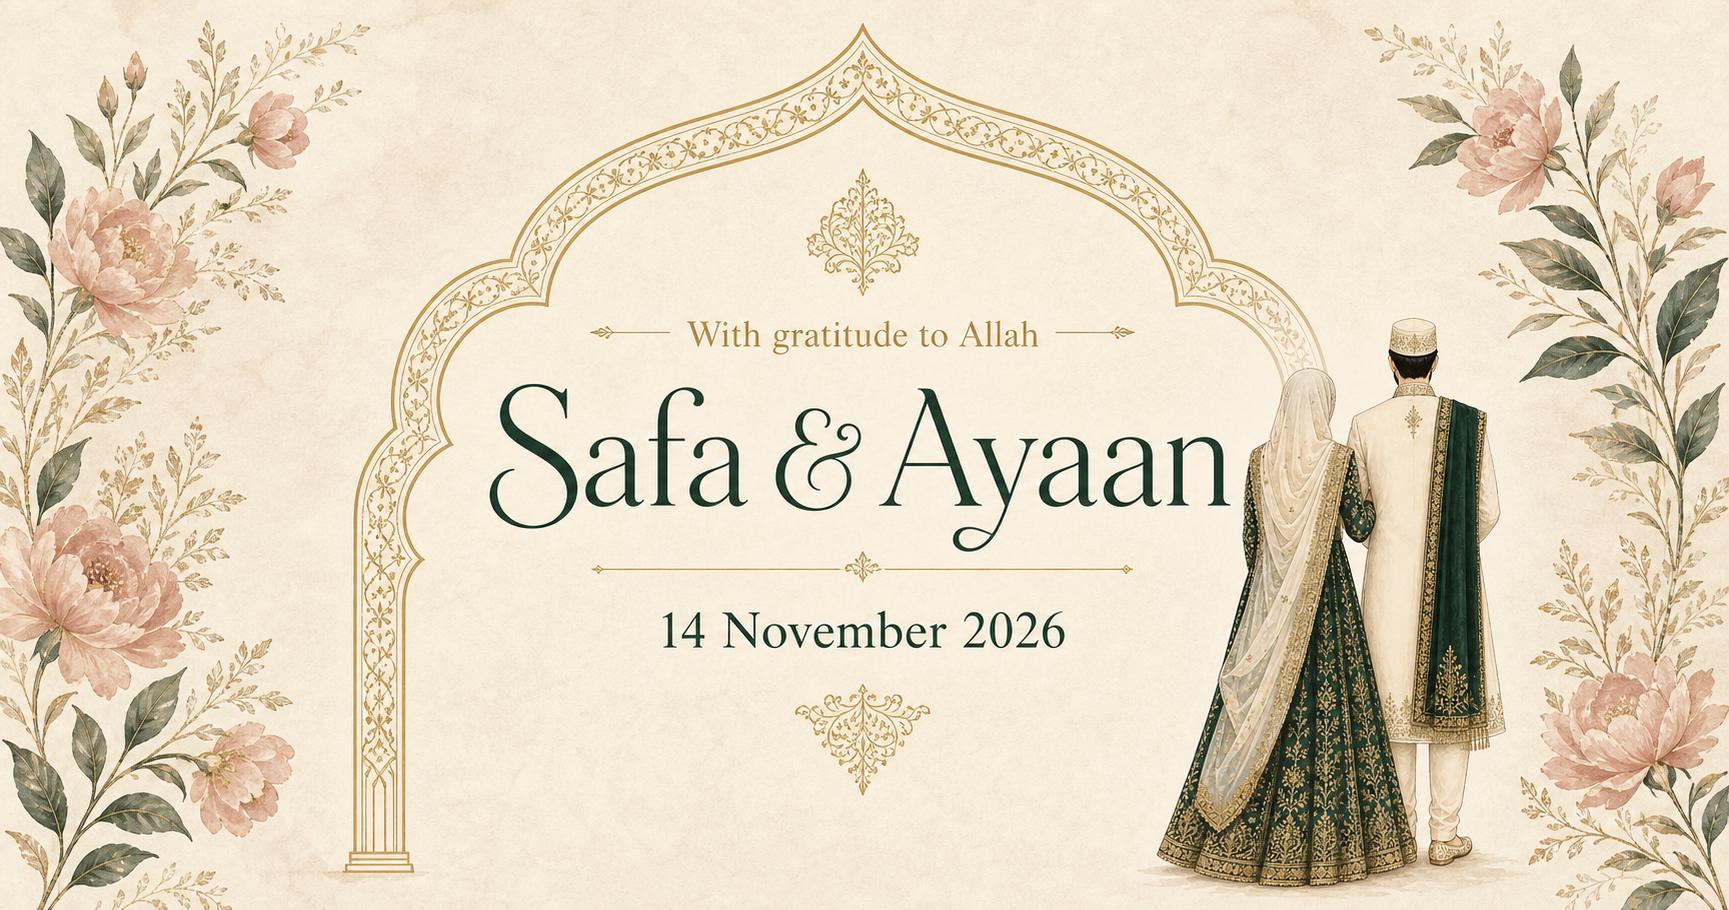
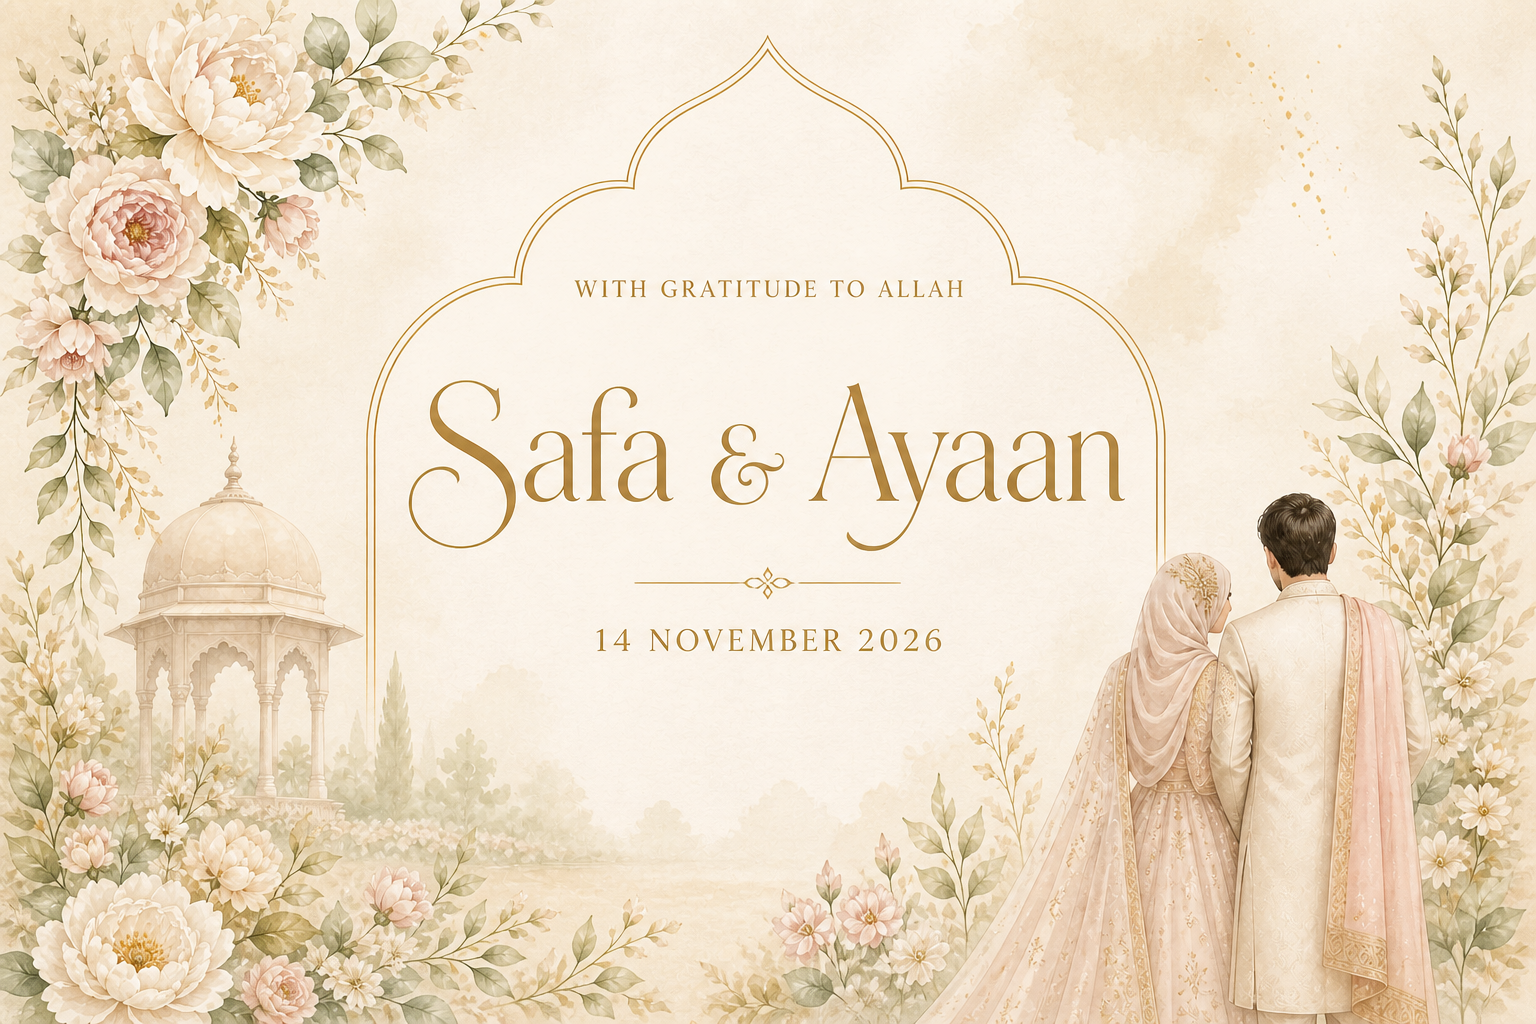
Redesign invitation landing from watercolor reference

diff --git a/app/globals.css b/app/globals.css
@@ -1,7 +1,7 @@
 @import url('https://fonts.googleapis.com/css2?family=Cormorant+Garamond:ital,wght@0,400;0,500;0,600;1,500&family=Manrope:wght@400;500;600&family=Noto+Naskh+Arabic:wght@500&display=swap');
 @import "tailwindcss";
 
-:root { --ivory:#f6f0e4; --paper:#fbf8f0; --green:#173f32; --green-2:#285344; --gold:#b38a4c; --blush:#c99186; --ink:#24342d; }
+:root { --ivory:#f8f2e8; --paper:#fdfaf3; --green:#4c5848; --green-2:#66715e; --gold:#b99658; --blush:#d6aaa0; --ink:#4a4c43; }
 * { box-sizing: border-box; }
 html { scroll-behavior:smooth; background:var(--ivory); }
 body { margin:0; color:var(--ink); background:var(--ivory); font-family:"Manrope",sans-serif; overflow-x:hidden; }
@@ -35,24 +35,20 @@ button { color:inherit; }
 
 .invitation-content { opacity:0; visibility:hidden; transition:opacity .9s ease .65s; }.invitation--open .invitation-content { opacity:1; visibility:visible; }
 .hero { height:142vh; position:relative; background:var(--ivory); }
-.hero__fixed { position:sticky; top:0; height:100vh; overflow:hidden; display:grid; place-items:center; filter:blur(var(--scroll-blur)); opacity:var(--scroll-fade); transform:scale(calc(1 + var(--scroll-blur) / 150)); transition:filter .05s linear; background:radial-gradient(circle at 50% 42%,#fffdf7 0,#f5eddf 72%); }
-.paper-noise { position:absolute; inset:0; opacity:.34; pointer-events:none; background-image:radial-gradient(#745f3c18 .7px,transparent .7px); background-size:7px 7px; }
-.arch { position:relative; z-index:2; width:min(690px,72vw); height:min(810px,87vh); padding:12px; border:1px solid #c3a66f; border-bottom:0; border-radius:50% 50% 0 0 / 35% 35% 0 0; }
-.arch:before,.arch:after { content:""; position:absolute; border:1px solid #b38a4c66; border-bottom:0; border-radius:50% 50% 0 0 / 34% 34% 0 0; }.arch:before { inset:7px; }.arch:after { inset:17px; }
-.arch__inner { position:relative; z-index:2; height:100%; display:flex; flex-direction:column; align-items:center; text-align:center; padding:14vh 2rem 2rem; }
+.hero__fixed { position:sticky; top:0; height:100vh; overflow:hidden; display:grid; place-items:center; filter:blur(var(--scroll-blur)); opacity:var(--scroll-fade); transform:scale(calc(1 + var(--scroll-blur) / 150)); transition:filter .05s linear; background:radial-gradient(circle at 50% 38%,#f8f2e8,#e4d7c3 80%); }
+.paper-noise { position:absolute; inset:0; z-index:1; opacity:.14; pointer-events:none; background-image:radial-gradient(#745f3c20 .7px,transparent .7px); background-size:7px 7px; }
+.hero-art { position:absolute; z-index:0; top:0; bottom:0; left:50%; height:100%; width:auto; max-width:none; transform:translateX(-50%); object-fit:cover; box-shadow:0 0 75px #6f5d4430; }
+.arch { position:relative; z-index:2; width:min(560px,53vh); height:min(760px,82vh); padding:0; }
+.arch:before,.arch:after { display:none; }
+.arch__inner { position:relative; z-index:2; height:100%; display:flex; flex-direction:column; align-items:center; text-align:center; padding:16vh 1rem 1rem; }
 .bismillah { margin:0 0 1.3rem; font:500 clamp(1.15rem,2.2vw,1.65rem) "Noto Naskh Arabic",serif; color:var(--green); }
 .ornament { width:110px; display:flex; align-items:center; gap:10px; margin:1.2rem 0; color:var(--gold); }.ornament:before,.ornament:after { content:""; height:1px; flex:1; background:var(--gold); }.ornament span { font-size:.65rem; }
-h1 { margin:0; display:flex; flex-direction:column; font:500 clamp(4.4rem,9vw,8.1rem)/.67 "Cormorant Garamond",serif; color:var(--green); letter-spacing:-.055em; }
+h1 { margin:0; display:flex; flex-direction:column; font:500 clamp(3.7rem,7.5vh,6rem)/.68 "Cormorant Garamond",serif; color:var(--green); letter-spacing:-.055em; text-shadow:0 2px 16px #fffaf0; }
 h1 small { margin:.24em 0; color:var(--gold); font-size:.32em; font-style:italic; letter-spacing:0; }
 .invitation-copy { margin:2rem 0 1.4rem; font:italic 500 clamp(1rem,1.7vw,1.25rem)/1.6 "Cormorant Garamond",serif; color:#687269; }
 .date-lockup { display:flex; align-items:center; gap:1.1rem; color:var(--green); text-transform:uppercase; }.date-lockup strong { padding:0 1.1rem; border-left:1px solid #c1a36c;border-right:1px solid #c1a36c; font:500 clamp(1rem,2vw,1.3rem) "Cormorant Garamond",serif; letter-spacing:.14em; }.date-lockup span { font-size:.55rem; letter-spacing:.14em; }
 .verse { margin:2rem 0 .2rem; font:italic 500 .92rem "Cormorant Garamond",serif; color:#6b746c; }.verse-ref { color:var(--gold); font-size:.54rem; letter-spacing:.15em; text-transform:uppercase; }
-.couple { position:absolute; z-index:4; right:3.5vw; bottom:-2.5vh; width:min(34vw,470px); height:min(76vh,760px); object-fit:contain; mix-blend-mode:multiply; transform-origin:bottom center; animation:coupleSway 5s ease-in-out infinite; filter:drop-shadow(0 15px 18px #5b49321a); }
-.arch-floral { position:absolute; z-index:3; width:250px; height:600px; pointer-events:none; }.arch-floral--left { left:3vw; top:12vh; }.arch-floral--right { right:2.5vw; top:5vh; transform:scaleX(-1) rotate(-7deg); }
-.stem { position:absolute; display:block; left:90px; bottom:0; width:2px; height:510px; border-radius:50%; background:linear-gradient(#617e6a,#315b48); transform:rotate(-15deg); transform-origin:bottom; }.stem--two { height:410px; transform:rotate(12deg); }
-.leaf { position:absolute; width:55px; height:22px; background:linear-gradient(135deg,#52755f,#214c3c); border-radius:100% 0 100% 0; }.leaf--one{left:45px;top:250px;transform:rotate(25deg)}.leaf--two{left:102px;top:325px;transform:rotate(-35deg)}.leaf--three{left:25px;top:400px;transform:rotate(42deg)}.leaf--four{left:115px;top:185px;transform:rotate(-50deg)}
-.flower { position:absolute; width:74px; aspect-ratio:1; border-radius:50%; background:radial-gradient(circle,#d9ae9c 0 11%,transparent 12%),radial-gradient(ellipse at 50% 12%,#d7a499 0 21%,transparent 22%),radial-gradient(ellipse at 88% 52%,#c98e84 0 20%,transparent 21%),radial-gradient(ellipse at 48% 88%,#dda99e 0 21%,transparent 22%),radial-gradient(ellipse at 12% 50%,#c88d83 0 20%,transparent 21%); filter:drop-shadow(0 7px 8px #79504720); }.flower--one{left:62px;top:72px}.flower--two{left:10px;top:190px;transform:scale(.72)}.flower--three{left:120px;top:265px;transform:scale(.58)}
-.scroll-cue { position:absolute; z-index:6; left:3vw; bottom:4vh; display:flex; gap:.8rem; align-items:center; color:#6f776f; font-size:.57rem; letter-spacing:.17em; text-transform:uppercase; }.scroll-cue i { color:var(--gold);font:normal 1rem serif;animation:bob 1.5s ease-in-out infinite;}
+.scroll-cue { position:absolute; z-index:6; left:50%; bottom:2.8vh; transform:translateX(-50%); display:flex; gap:.8rem; align-items:center; color:#7d776c; font-size:.53rem; letter-spacing:.17em; text-transform:uppercase; white-space:nowrap; }.scroll-cue i { color:var(--gold);font:normal 1rem serif;animation:bob 1.5s ease-in-out infinite;}
 
 .details { position:relative; z-index:7; padding:11rem max(5vw,1.5rem) 0; background:linear-gradient(180deg,#f1e7d7,#f8f3e9 35%,#f2e9dc); overflow:hidden; }
 .details:before { content:""; position:absolute; width:480px; aspect-ratio:1; right:-260px; top:110px; border:1px solid #b38a4c45; border-radius:50%; box-shadow:0 0 0 28px #b38a4c12,0 0 0 55px #b38a4c0b; }
@@ -64,8 +60,8 @@ h1 small { margin:.24em 0; color:var(--gold); font-size:.32em; font-style:italic
 .dua-card { max-width:1040px;margin:7rem auto;padding:6rem 2rem;text-align:center;border-top:1px solid #b4956260;border-bottom:1px solid #b4956260;}.crescent{display:block;color:var(--gold);font-size:2rem;margin-bottom:2rem}.dua-card__arabic{margin:0 auto 1.7rem;max-width:730px;color:var(--green);font:500 clamp(1.55rem,3.5vw,2.5rem)/1.8 "Noto Naskh Arabic",serif}.dua-card>p:last-child{max-width:540px;margin:auto;color:#6d746e;font:italic 500 1.05rem/1.7 "Cormorant Garamond",serif}
 footer { margin:0 calc(max(5vw,1.5rem) * -1);padding:7rem 2rem 5rem;text-align:center;background:#e8dcc9;color:var(--green)}.monogram{font:500 clamp(3rem,7vw,5rem) "Cormorant Garamond",serif;}.monogram i{color:var(--gold);font-weight:400}.monogram:after{content:"";display:block;width:42px;height:1px;margin:2rem auto;background:var(--gold)}footer p{font:italic 500 1.25rem "Cormorant Garamond",serif;margin:0 0 .8rem}footer span{color:#747a73;font-size:.6rem;letter-spacing:.18em;text-transform:uppercase}
 
-@keyframes envelopeIn{from{opacity:0;transform:translateY(35px) rotateX(6deg)}to{opacity:1;transform:none}}@keyframes rise{from{opacity:0;transform:translateY(12px)}to{opacity:1;transform:none}}@keyframes bob{50%{transform:translateY(6px)}}@keyframes coupleSway{0%,100%{transform:rotate(-.5deg) translateY(0)}50%{transform:rotate(.7deg) translateY(-6px)}}
+@keyframes envelopeIn{from{opacity:0;transform:translateY(35px) rotateX(6deg)}to{opacity:1;transform:none}}@keyframes rise{from{opacity:0;transform:translateY(12px)}to{opacity:1;transform:none}}@keyframes bob{50%{transform:translateY(6px)}}
 
-@media(max-width:800px){.envelope-wrap{width:90vw}.seal{width:68px}.envelope-eyebrow{margin-bottom:2rem;font-size:.56rem}.hero{height:132vh}.hero__fixed{align-items:start;padding-top:5vh}.arch{width:89vw;height:82vh}.arch__inner{padding:11vh 1rem 1rem}.bismillah{margin-bottom:.8rem}.arch__inner>.eyebrow{font-size:.5rem}.ornament{margin:.85rem 0}h1{font-size:clamp(4.1rem,20vw,6.1rem)}.invitation-copy{font-size:.94rem;margin:1.3rem 0}.date-lockup{gap:.55rem}.date-lockup strong{font-size:.92rem;padding:0 .6rem}.date-lockup span{font-size:.45rem}.verse{font-size:.8rem;margin-top:1.35rem}.couple{right:-7vw;width:46vw;height:49vh}.arch-floral{transform:scale(.67);transform-origin:top left}.arch-floral--left{left:-9vw;top:16vh}.arch-floral--right{right:-22vw;top:6vh;transform:scaleX(-1) scale(.67) rotate(-7deg)}.scroll-cue{left:5vw}.details{padding-top:8rem}.details__intro{margin-bottom:5rem}.event-grid{grid-template-columns:1fr}.event-card{min-height:470px}.venue-card{padding:3.2rem 2rem}.dua-card{margin:5rem auto;padding:4rem .5rem}}
-@media(max-width:420px){.open-hint{margin-top:2.2rem}.arch{height:79vh}.arch__inner{padding-top:9vh}.bismillah{font-size:1rem}.invitation-copy{line-height:1.4}.verse{display:none}.couple{height:42vh;width:54vw}.details__intro h2{font-size:4rem}.venue-card__top{align-items:center}.venue-card__symbol{font-size:2rem}}
+@media(max-width:800px){.envelope-wrap{width:90vw}.seal{width:68px}.envelope-eyebrow{margin-bottom:2rem;font-size:.56rem}.hero{height:132vh}.hero-art{width:100%;height:100%;object-fit:cover}.arch{width:76vw;height:82vh}.arch__inner{padding:15vh .5rem 1rem}.bismillah{margin-bottom:.8rem;font-size:1.05rem}.arch__inner>.eyebrow{font-size:.47rem}.ornament{margin:.85rem 0}h1{font-size:clamp(3.7rem,17vw,5.5rem)}.invitation-copy{font-size:.9rem;margin:1.15rem 0}.date-lockup{gap:.5rem}.date-lockup strong{font-size:.86rem;padding:0 .55rem}.date-lockup span{font-size:.43rem}.verse{font-size:.75rem;margin-top:1.2rem}.details{padding-top:8rem}.details__intro{margin-bottom:5rem}.event-grid{grid-template-columns:1fr}.event-card{min-height:470px}.venue-card{padding:3.2rem 2rem}.dua-card{margin:5rem auto;padding:4rem .5rem}}
+@media(max-width:420px){.open-hint{margin-top:2.2rem}.arch{height:79vh;width:78vw}.arch__inner{padding-top:13vh}.bismillah{font-size:.9rem}.invitation-copy{line-height:1.35;margin:.9rem 0}.verse{display:none}.date-lockup{margin-top:.2rem}.details__intro h2{font-size:4rem}.venue-card__top{align-items:center}.venue-card__symbol{font-size:2rem}}
 @media(prefers-reduced-motion:reduce){*,*:before,*:after{animation-duration:.01ms!important;animation-iteration-count:1!important;scroll-behavior:auto!important;transition-duration:.01ms!important}}

diff --git a/app/page.tsx b/app/page.tsx
@@ -79,16 +79,11 @@ export default function Home() {
         >
           <div className="hero__fixed">
             <div className="paper-noise" />
-            <div className="arch-floral arch-floral--left" aria-hidden="true">
-              <i className="stem stem--one" /><i className="stem stem--two" />
-              <b className="flower flower--one" /><b className="flower flower--two" /><b className="flower flower--three" />
-              <em className="leaf leaf--one" /><em className="leaf leaf--two" /><em className="leaf leaf--three" /><em className="leaf leaf--four" />
-            </div>
-            <div className="arch-floral arch-floral--right" aria-hidden="true">
-              <i className="stem stem--one" /><i className="stem stem--two" />
-              <b className="flower flower--one" /><b className="flower flower--two" /><b className="flower flower--three" />
-              <em className="leaf leaf--one" /><em className="leaf leaf--two" /><em className="leaf leaf--three" /><em className="leaf leaf--four" />
-            </div>
+            <img
+              className="hero-art"
+              src="/hero-watercolor-v2.png"
+              alt="Watercolour Islamic garden scene framed by ivory and blush flowers, with a newlywed couple seen from behind"
+            />
 
             <div className="arch">
               <div className="arch__inner">
@@ -104,7 +99,6 @@ export default function Home() {
                 <span className="verse-ref">Qur’an 30:21</span>
               </div>
             </div>
-            <img className="couple" src="/couple-rear-view.png" alt="Watercolour illustration of a Muslim bride and groom viewed from behind" />
             <div className="scroll-cue"><span>Discover our celebration</span><i>↓</i></div>
           </div>
         </section>
